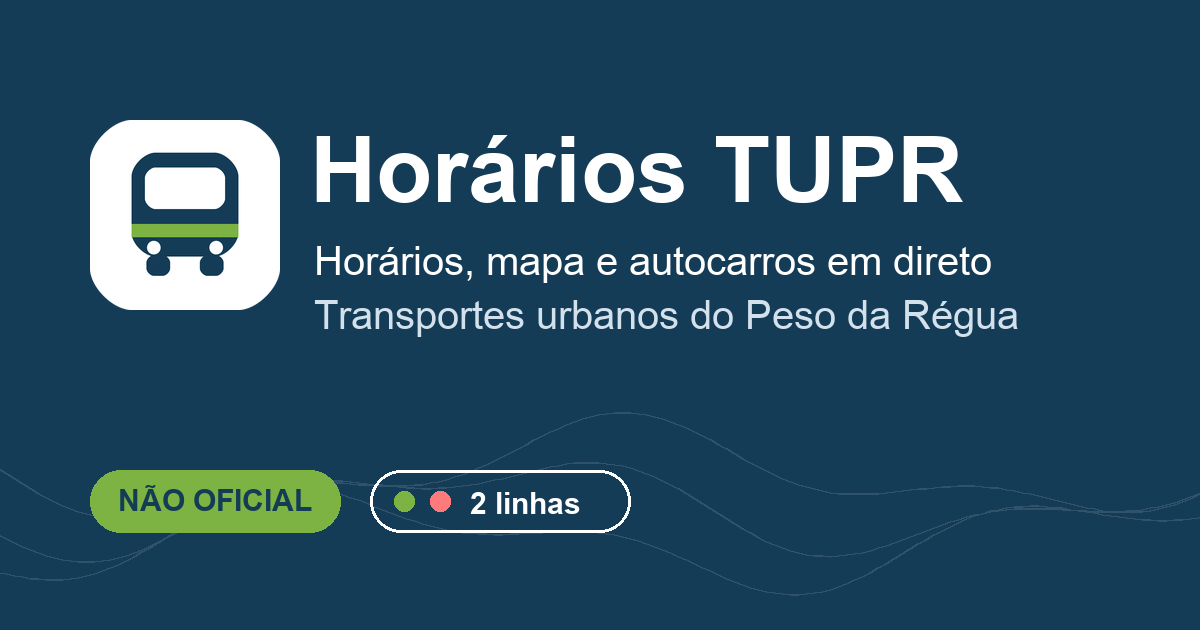
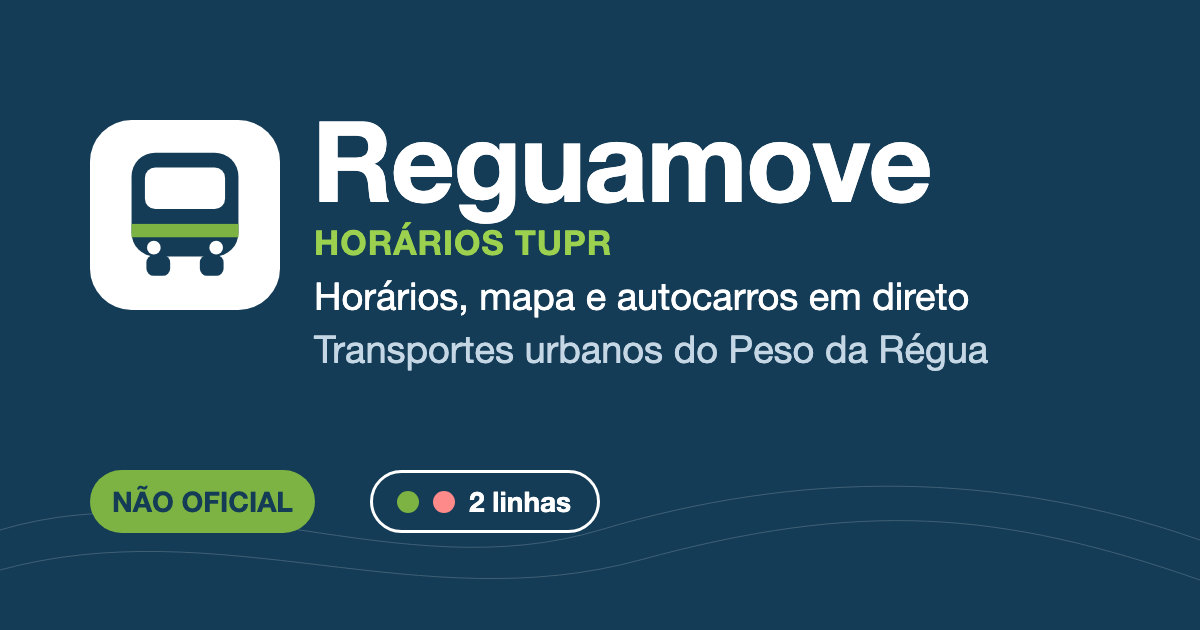
Marca Reguamove com 'Horários TUPR' como subtítulo (cabeçalho, ecrã inicial, títulos SEO, manifesto, imagem de partilha, termos)

diff --git a/src/i18n/pt.ts b/src/i18n/pt.ts
@@ -1,13 +1,13 @@
 /** Português (original). As chaves com sufixo _one/_other usam {count}. */
 export const pt = {
-  'brand.sub': 'Não oficial · Peso da Régua',
+  'brand.sub': 'Horários TUPR · Não oficial',
   'a2hs.android': 'No Android: menu ⋮ do browser → “Adicionar ao ecrã principal” (ou “Instalar aplicação”).',
-  'a2hs.banner': 'Adicione os Horários TUPR ao ecrã principal',
+  'a2hs.banner': 'Adicione o Reguamove ao ecrã principal',
   'a2hs.close': 'Fechar aviso',
   'a2hs.closeDialog': 'Fechar',
   'a2hs.gotIt': 'Percebi',
   'a2hs.how': 'Como?',
-  'a2hs.intro': 'Abra os Horários TUPR com um toque, como uma aplicação, e veja os horários em segundos.',
+  'a2hs.intro': 'Abra o Reguamove com um toque, como uma aplicação, e veja os horários em segundos.',
   'a2hs.never': 'Já adicionei / não mostrar mais',
   'a2hs.region': 'Instalar no ecrã principal',
   'a2hs.s1': 'Toque em Partilhar',
@@ -15,7 +15,7 @@ export const pt = {
   'a2hs.s2': 'Escolha “Adicionar ao ecrã principal”',
   'a2hs.s2t': 'Deslize a lista para cima, se for preciso, até encontrar esta opção.',
   'a2hs.s3': 'Toque em “Adicionar”',
-  'a2hs.s3t': 'O ícone dos Horários TUPR aparece no seu ecrã principal.',
+  'a2hs.s3t': 'O ícone do Reguamove aparece no seu ecrã principal.',
   'a2hs.safariNote': 'No iPhone isto faz-se no Safari. Se abriu este endereço noutra aplicação, copie-o e abra-o no Safari.',
   'a2hs.title': 'Adicionar ao ecrã principal (iPhone)',
   'bus.credit': 'Posição em tempo real fornecida pelo sistema de tracking do TUPR —',
@@ -107,7 +107,7 @@ export const pt = {
   'home.quick': 'Acessos rápidos',
   'home.seeAll': 'Ver todas',
   'home.seeNext': 'Ver próximos autocarros',
-  'home.subtitle': 'Horários TUPR, não oficial: consulte horários, veja os autocarros em direto e planeie a sua viagem pela cidade.',
+  'home.subtitle': 'Horários dos TUPR (não oficial): consulte horários, veja os autocarros em direto e planeie a sua viagem pela cidade.',
   'home.title1': 'Transportes Urbanos',
   'home.title2': 'de Peso da Régua',
   'info.circular': 'As duas linhas são circulares: partem e terminam na R. Fernando Augusto Bandeira.',
@@ -252,8 +252,8 @@ export const pt = {
   'plan.today': 'Hoje',
   'plan.tomorrow': 'Amanhã',
   'plan.transferNote': 'Viagens com transbordo assumem pelo menos 2 minutos para trocar de autocarro (valor definido pela aplicação).',
-  'seo.suffix': ' | Horários TUPR',
-  'seo.home.title': 'Horários TUPR (não oficial) · Transportes Urbanos de Peso da Régua',
+  'seo.suffix': ' | Reguamove · Horários TUPR',
+  'seo.home.title': 'Reguamove · Horários TUPR (não oficial) · Transportes Urbanos de Peso da Régua',
   'seo.home.desc': 'Horários, mapa e autocarros em direto dos transportes urbanos do Peso da Régua (TUPR). Planeie a viagem e veja o próximo autocarro. Aplicação não oficial.',
   'seo.plan.title': 'Planear viagem de autocarro no Peso da Régua',
   'seo.plan.desc': 'Escolha a origem, o destino e a hora e veja as ligações das linhas Verde e Vermelha, incluindo transbordos.',
@@ -272,9 +272,9 @@ export const pt = {
   'seo.map.title': 'Mapa dos autocarros do Peso da Régua',
   'seo.map.desc': 'Mapa com as paragens e os percursos das linhas Verde e Vermelha e a posição dos autocarros em direto.',
   'seo.terms.title': 'Termos de utilização',
-  'seo.terms.desc': 'Termos de utilização do Horários TUPR, um projeto isolado e não oficial da Bagatela.',
+  'seo.terms.desc': 'Termos de utilização do Reguamove, um projeto isolado e não oficial da Bagatela.',
   'seo.privacy.title': 'Política de privacidade',
-  'seo.privacy.desc': 'Que dados o Horários TUPR guarda no seu dispositivo e que serviços externos contacta.',
+  'seo.privacy.desc': 'Que dados o Reguamove guarda no seu dispositivo e que serviços externos contacta.',
   'seo.notfound.title': 'Página não encontrada',
   'share.aria': 'Partilhar este percurso',
   'share.copied': 'Link copiado',

diff --git a/src/i18n/en.ts b/src/i18n/en.ts
@@ -2,14 +2,14 @@ import type { pt } from './pt'
 
 /** English. Stop names are kept in Portuguese, as in the published timetables. */
 export const en: Record<keyof typeof pt, string> = {
-  'brand.sub': 'Unofficial · Peso da Régua',
+  'brand.sub': 'TUPR timetables · Unofficial',
   'a2hs.android': 'On Android: browser menu ⋮ → “Add to Home screen” (or “Install app”).',
-  'a2hs.banner': 'Add Horários TUPR to your Home Screen',
+  'a2hs.banner': 'Add Reguamove to your Home Screen',
   'a2hs.close': 'Dismiss notice',
   'a2hs.closeDialog': 'Close',
   'a2hs.gotIt': 'Got it',
   'a2hs.how': 'How?',
-  'a2hs.intro': 'Open Horários TUPR with one tap, like an app, and see timetables in seconds.',
+  'a2hs.intro': 'Open Reguamove with one tap, like an app, and see timetables in seconds.',
   'a2hs.never': 'Already added / don’t show again',
   'a2hs.region': 'Install on Home Screen',
   'a2hs.s1': 'Tap Share',
@@ -17,7 +17,7 @@ export const en: Record<keyof typeof pt, string> = {
   'a2hs.s2': 'Choose “Add to Home Screen”',
   'a2hs.s2t': 'Scroll the list up if needed until you find this option.',
   'a2hs.s3': 'Tap “Add”',
-  'a2hs.s3t': 'The Horários TUPR icon appears on your Home Screen.',
+  'a2hs.s3t': 'The Reguamove icon appears on your Home Screen.',
   'a2hs.safariNote': 'On iPhone this is done in Safari. If you opened this address in another app, copy it and open it in Safari.',
   'a2hs.title': 'Add to Home Screen (iPhone)',
   'bus.credit': 'Real-time position provided by the TUPR tracking system —',
@@ -109,7 +109,7 @@ export const en: Record<keyof typeof pt, string> = {
   'home.quick': 'Quick links',
   'home.seeAll': 'See all',
   'home.seeNext': 'See next buses',
-  'home.subtitle': 'Horários TUPR, unofficial: check timetables, see the buses live and plan your trip around town.',
+  'home.subtitle': 'TUPR bus timetables (unofficial): check timetables, see the buses live and plan your trip around town.',
   'home.title1': 'Urban transport',
   'home.title2': 'of Peso da Régua',
   'info.circular': 'Both lines are circular: they start and end at R. Fernando Augusto Bandeira.',
@@ -254,8 +254,8 @@ export const en: Record<keyof typeof pt, string> = {
   'plan.today': 'Today',
   'plan.tomorrow': 'Tomorrow',
   'plan.transferNote': 'Trips with a transfer assume at least 2 minutes to change buses (a value set by the app).',
-  'seo.suffix': ' | Horários TUPR',
-  'seo.home.title': 'Horários TUPR (unofficial) · Peso da Régua urban transport',
+  'seo.suffix': ' | Reguamove · TUPR timetables',
+  'seo.home.title': 'Reguamove · TUPR timetables (unofficial) · Peso da Régua urban transport',
   'seo.home.desc': 'Timetables, map and live buses for the urban transport of Peso da Régua (TUPR), Portugal. Plan a trip and see the next bus. Unofficial app.',
   'seo.plan.title': 'Plan a bus trip in Peso da Régua',
   'seo.plan.desc': 'Choose your origin, destination and time to see connections on the Green and Red lines, including transfers.',
@@ -274,9 +274,9 @@ export const en: Record<keyof typeof pt, string> = {
   'seo.map.title': 'Peso da Régua bus map',
   'seo.map.desc': 'Map with the stops and routes of the Green and Red lines and the live position of the buses.',
   'seo.terms.title': 'Terms of use',
-  'seo.terms.desc': 'Terms of use of Horários TUPR, a standalone, unofficial Bagatela project.',
+  'seo.terms.desc': 'Terms of use of Reguamove, a standalone, unofficial Bagatela project.',
   'seo.privacy.title': 'Privacy policy',
-  'seo.privacy.desc': 'What data Horários TUPR stores on your device and which external services it contacts.',
+  'seo.privacy.desc': 'What data Reguamove stores on your device and which external services it contacts.',
   'seo.notfound.title': 'Page not found',
   'share.aria': 'Share this journey',
   'share.copied': 'Link copied',

diff --git a/src/i18n/legal.ts b/src/i18n/legal.ts
@@ -21,11 +21,11 @@ export const terms: Record<Lang, LegalDoc> = {
   pt: {
     title: 'Termos de utilização',
     updated: UPDATED.pt,
-    intro: 'Ao usar o Horários TUPR aceita estes termos. São curtos e escritos para se perceberem.',
+    intro: 'Ao usar o Reguamove aceita estes termos. São curtos e escritos para se perceberem.',
     sections: [
       {
         h: 'Quem somos',
-        p: ['O Horários TUPR é um projeto isolado e não oficial da Bagatela. Não é um serviço da Câmara Municipal do Peso da Régua, do operador dos transportes urbanos nem da Eleven Systems, e não tem qualquer parceria ou aval da parte deles.', 'TUPR e as restantes marcas ou nomes referidos pertencem aos respetivos titulares e são usados apenas para identificar o serviço a que a informação diz respeito.'],
+        p: ['O Reguamove (horários do TUPR) é um projeto isolado e não oficial da Bagatela. Não é um serviço da Câmara Municipal do Peso da Régua, do operador dos transportes urbanos nem da Eleven Systems, e não tem qualquer parceria ou aval da parte deles.', 'TUPR e as restantes marcas ou nomes referidos pertencem aos respetivos titulares e são usados apenas para identificar o serviço a que a informação diz respeito.'],
       },
       {
         h: 'O que a aplicação faz',
@@ -82,11 +82,11 @@ export const terms: Record<Lang, LegalDoc> = {
   en: {
     title: 'Terms of use',
     updated: UPDATED.en,
-    intro: 'By using Horários TUPR you accept these terms. They are short and written to be understood.',
+    intro: 'By using Reguamove you accept these terms. They are short and written to be understood.',
     sections: [
       {
         h: 'Who we are',
-        p: ['Horários TUPR is a standalone, unofficial Bagatela project. It is not a service of the Municipality of Peso da Régua, of the urban transport operator or of Eleven Systems, and has no partnership with or endorsement from them.', 'TUPR and any other brands or names mentioned belong to their respective owners and are used only to identify the service the information refers to.'],
+        p: ['Reguamove (TUPR timetables) is a standalone, unofficial Bagatela project. It is not a service of the Municipality of Peso da Régua, of the urban transport operator or of Eleven Systems, and has no partnership with or endorsement from them.', 'TUPR and any other brands or names mentioned belong to their respective owners and are used only to identify the service the information refers to.'],
       },
       {
         h: 'What the app does',

diff --git a/index.html b/index.html
@@ -4,15 +4,15 @@
     <meta charset="UTF-8" />
     <link rel="icon" type="image/svg+xml" href="/favicon.svg" />
     <meta name="viewport" content="width=device-width, initial-scale=1, viewport-fit=cover" />
-    <meta name="description" content="Horários TUPR (não oficial): horários, autocarros em direto e planeador de viagem dos transportes urbanos do Peso da Régua. Linha Verde e Linha Vermelha." />
+    <meta name="description" content="Reguamove · Horários TUPR (não oficial): horários, autocarros em direto e planeador de viagem dos transportes urbanos do Peso da Régua. Linha Verde e Linha Vermelha." />
     <meta name="theme-color" content="#143c57" />
     <link rel="manifest" href="/manifest.webmanifest" />
     <link rel="apple-touch-icon" href="/apple-touch-icon.png" />
     <meta name="apple-mobile-web-app-capable" content="yes" />
     <meta name="mobile-web-app-capable" content="yes" />
-    <meta name="apple-mobile-web-app-title" content="Horários TUPR" />
+    <meta name="apple-mobile-web-app-title" content="Reguamove" />
     <meta name="apple-mobile-web-app-status-bar-style" content="default" />
-    <title>Horários TUPR · não oficial</title>
+    <title>Reguamove · Horários TUPR (não oficial)</title>
     <script>
       try {
         if (localStorage.getItem('tupr:theme') === 'dark') document.documentElement.classList.add('dark')

diff --git a/src/components/Logo.tsx b/src/components/Logo.tsx
@@ -24,7 +24,7 @@ export function Logo({ light = false }: { light?: boolean }) {
     <span className="flex min-w-0 items-center gap-2.5 sm:gap-3">
       <LogoMark onDark={light} className="h-9 w-9 shrink-0 rounded-[0.65rem] ring-1 ring-hair sm:h-10 sm:w-10 sm:rounded-[0.7rem]" />
       <span className="flex flex-col leading-none">
-        <span className={`font-display text-[1.12rem] font-extrabold tracking-tight sm:text-[1.3rem] ${light ? 'text-white' : 'text-primary'}`}>Horários TUPR</span>
+        <span className={`font-display text-[1.12rem] font-extrabold tracking-tight sm:text-[1.3rem] ${light ? 'text-white' : 'text-primary'}`}>Reguamove</span>
         <span className={`mt-1.5 text-[0.5rem] font-semibold uppercase leading-[1.2] tracking-[0.03em] min-[360px]:text-[0.54rem] min-[360px]:tracking-[0.07em] sm:text-[0.6rem] sm:tracking-[0.12em] ${light ? 'text-white/80' : 'text-muted'}`}>{t('brand.sub')}</span>
       </span>
     </span>

diff --git a/src/components/Footer.tsx b/src/components/Footer.tsx
@@ -46,7 +46,7 @@ export function Footer() {
           <p className="mt-3 flex flex-wrap gap-x-5 text-sm font-semibold">
             <Link to="/termos" className="inline-flex min-h-11 items-center underline-offset-4 hover:underline">{t('footer.terms')}</Link>
             <Link to="/privacidade" className="inline-flex min-h-11 items-center underline-offset-4 hover:underline">{t('footer.privacy')}</Link>
-            <a href={`mailto:${CONTACT_EMAIL}?subject=${encodeURIComponent(t('report.subject', { what: 'Horários TUPR' }))}`} className="inline-flex min-h-11 items-center underline-offset-4 hover:underline">{t('footer.report')}</a>
+            <a href={`mailto:${CONTACT_EMAIL}?subject=${encodeURIComponent(t('report.subject', { what: 'Reguamove' }))}`} className="inline-flex min-h-11 items-center underline-offset-4 hover:underline">{t('footer.report')}</a>
           </p>
         </div>
       </div>

diff --git a/src/components/Splash.tsx b/src/components/Splash.tsx
@@ -66,7 +66,7 @@ export function Splash() {
     <div className="splash" aria-hidden="true" onClick={() => setShow(false)} onAnimationEnd={(e) => e.animationName === 'splash-wipe' && setShow(false)}>
       <div className="splash-brand" >
         <LogoMark onDark className="h-20 w-20 rounded-2xl sm:h-24 sm:w-24" />
-        <span className="font-display text-4xl font-extrabold tracking-tight text-white sm:text-6xl">Horários TUPR</span>
+        <span className="font-display text-4xl font-extrabold tracking-tight text-white sm:text-6xl">Reguamove</span>
         <span className="mt-1 text-[0.7rem] font-semibold uppercase tracking-[0.25em] text-white/80 sm:text-xs">{tr('brand.sub')}</span>
       </div>
       <div className="splash-road" />

diff --git a/public/sw.js b/public/sw.js
@@ -1,4 +1,4 @@
-/* Service worker do Horários TUPR: a app e os horários abrem sem rede.
+/* Service worker do Reguamove: a app e os horários abrem sem rede.
  * - Páginas: rede primeiro; sem rede, usa a cópia guardada (ou a página inicial, que arranca a app).
  * - /assets (ficheiros com hash): cache primeiro.
  * - Restante conteúdo do próprio site: devolve a cópia guardada e atualiza em segundo plano.

diff --git a/README.md b/README.md
@@ -1,4 +1,4 @@
-# Horários TUPR (não oficial)
+# Reguamove · Horários TUPR (não oficial)
 
 Webapp (React + Vite + TypeScript + Tailwind + Leaflet) para consultar horários, planear viagens e ver as próximas partidas do TUPR.
 
